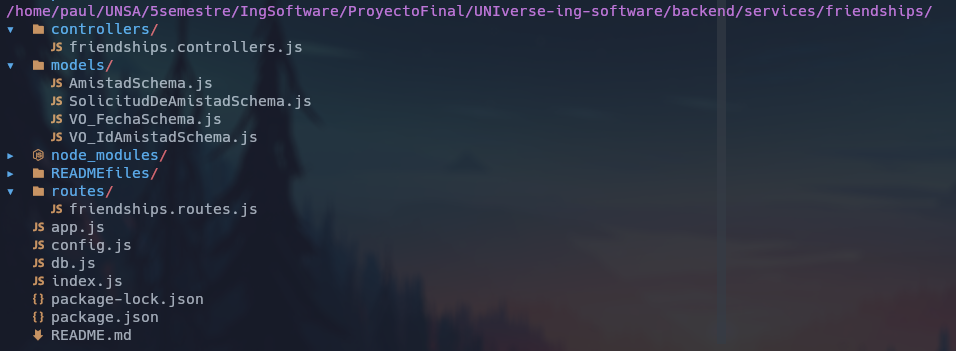
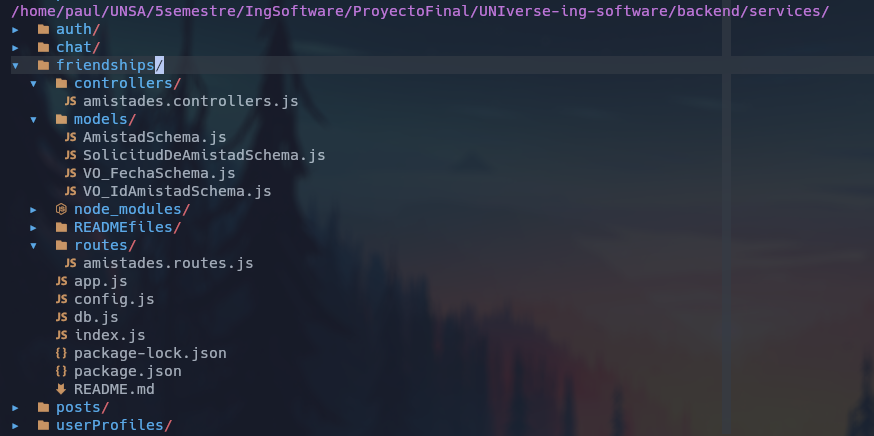
readme

diff --git a/backend/services/friendships/README.md b/backend/services/friendships/README.md
@@ -102,7 +102,7 @@ El siguiente código muestra cómo configurar una aplicación web utilizando el 
 ```javascript
 import express from "express";
 import fileUpload from "express-fileupload";
-import chatRoutes from "./routes/chat.routes.js";
+import amistadesRoutes from "./routes/amistades.routes.js";
 import { dirname, join } from "path";
 import { fileURLToPath } from "url";
 import cors from 'cors';
@@ -111,17 +111,17 @@ const app = express();
 const __dirname = dirname(fileURLToPath(import.meta.url));
 
 // middlewares
-app.use(cors());
+app.use(cors())
 app.use(express.json());
 app.use(
-  fileUpload({
-    useTempFiles: true,
-    tempFileDir: "./upload",
-  })
+    fileUpload({
+        useTempFiles: true,
+        tempFileDir: "./upload",
+    })
 );
 
 // routes
-app.use(chatRoutes);
+app.use(amistadesRoutes);
 console.log(__dirname);
 app.use(express.static(join(__dirname, "../client/build")));
 
@@ -178,7 +178,7 @@ La longitud de línea preferida puede variar según la comunidad de desarrollo, 
 ```javascript
 import express from "express";
 import fileUpload from "express-fileupload";
-import chatRoutes from "./routes/chat.routes.js";
+import amistadesRoutes from "./routes/amistades.routes.js";
 import { dirname, join } from "path";
 import { fileURLToPath } from "url";
 import cors from 'cors';
@@ -187,12 +187,17 @@ const app = express();
 const __dirname = dirname(fileURLToPath(import.meta.url));
 
 // middlewares
-app.use(cors());
+app.use(cors())
 app.use(express.json());
-app.use(fileUpload({ useTempFiles: true, tempFileDir: "./upload" }));
+app.use(
+    fileUpload({
+        useTempFiles: true,
+        tempFileDir: "./upload",
+    })
+);
 
 // routes
-app.use(chatRoutes);
+app.use(amistadesRoutes);
 console.log(__dirname);
 app.use(express.static(join(__dirname, "../client/build")));
 
@@ -251,7 +256,15 @@ Desventajas del Paradigma Procedural:
 - No es tan adecuado para proyectos más grandes y complejos, donde la modularidad y la reutilización son esenciales.
 
 ```javascript
-export const acceptFriendRequest = (req, res) => {
+/**
+ * Acepta una solicitud de amistad.
+ * @function aceptarSolicitudDeAmistad
+ * @param {Object} req - Objeto de solicitud de Express.
+ * @param {Object} res - Objeto de respuesta de Express.
+ * @returns {Promise<void>} - No devuelve ningún valor explícito.
+ * @throws {Error} - Si ocurre algún error en el servidor o si la solicitud de amistad no se encuentra o no está pendiente.
+ */
+export const aceptarSolicitudDeAmistad = (req, res) => {
     const { id } = req.params;
     SolicitudDeAmistad.findById(id)
         .then(friendRequest => {
@@ -269,6 +282,7 @@ export const acceptFriendRequest = (req, res) => {
             res.status(500).json({ message: error.message });
         });
 };
+
 ```
 
 ### Paradigma Orientado a Objetos
@@ -398,7 +412,15 @@ export default SolicitudDeAmistad;
 ```
 
 ```javascript
-export const sendFriendRequest = (req, res) => {
+/**
+ * Envia una solicitud de amistad.
+ * @function enviarSolicitudDeAmistad
+ * @param {Object} req - Objeto de solicitud de Express.
+ * @param {Object} res - Objeto de respuesta de Express.
+ * @returns {Promise<void>} - No devuelve ningún valor explícito.
+ * @throws {Error} - Si ocurre algún error en el servidor.
+ */
+export const enviarSolicitudDeAmistad = (req, res) => {
     const { idRemitente, idDestinatario } = req.body;
     SolicitudDeAmistad.findOne({
         IdRemitente: idRemitente,
@@ -426,3 +448,196 @@ export const sendFriendRequest = (req, res) => {
         });
 };
 ```
+
+# Laboratorio 11: Principios SOLID
+## 1. S: Single Responsibility Principle (SRP)
+
+El Principio de Responsabilidad Única (Single Responsibility Principle - SRP) es uno de los pilares fundamentales de los principios SOLID en ingeniería de software. Este principio se centra en asegurar que cada clase o módulo tenga una única responsabilidad o tarea específica.
+
+La idea detrás del SRP es que una clase debe ser responsable de una única funcionalidad o característica dentro del sistema. Si una clase tiene múltiples responsabilidades, esto puede llevar a un código confuso, difícil de mantener y propenso a errores. Por lo tanto, es recomendable dividir esas responsabilidades en diferentes clases, cada una de ellas encargada de una tarea específica.
+
+Beneficios del SRP:
+
+1. **Mantenibilidad:** Al tener clases con responsabilidades únicas, el código se vuelve más fácil de entender y modificar. Si una clase necesita cambios, se puede enfocar únicamente en la lógica relacionada a su responsabilidad, sin afectar otras partes del sistema.
+    
+2. **Reutilización:** Al separar las responsabilidades, los componentes se vuelven más modulares, lo que facilita la reutilización en otros lugares del sistema o en proyectos futuros.
+    
+3. **Testabilidad:** Las clases con responsabilidades únicas tienden a ser más fáciles de probar, ya que sus funcionalidades están bien delimitadas y se pueden crear pruebas más específicas para cada una de ellas.
+    
+4. **Claridad y comprensión:** Un diseño basado en el SRP mejora la legibilidad del código, ya que cada clase tiene un propósito claro y bien definido, lo que facilita a otros desarrolladores entender rápidamente su función y responsabilidad.
+    
+
+Sin embargo, es importante tener en cuenta que aplicar el SRP no significa crear una gran cantidad de clases extremadamente pequeñas para cada tarea trivial. Debe haber un equilibrio y sentido común en el diseño. El objetivo es dividir las responsabilidades de forma lógica y coherente, agrupando funcionalidades relacionadas y evitando la mezcla de tareas inconexas.
+
+Un enfoque útil para identificar si una clase viola el SRP es utilizar la técnica de "la prueba del cambio". Si una modificación en un requisito o funcionalidad requiere cambios en múltiples lugares dentro de la misma clase, es probable que esa clase tenga más de una responsabilidad y deba dividirse en clases más pequeñas y cohesivas.
+
+### SolicitudDeAmistadSchema.js
+
+```javascript
+import mongoose from "mongoose";
+
+const SolicitudDeAmistadSchema = new mongoose.Schema({
+    IDRemitente: {
+        type: mongoose.Schema.Types.ObjectId,
+        ref: "Usuario",
+        required: true,
+        trim: true,
+    },
+    IDDestinatario: {
+        type: mongoose.Schema.Types.ObjectId,
+        ref: "Usuario",
+        required: true,
+        trim: true,
+    },
+    EstadoDeSolicitud: {
+        type: String,
+        required: true,
+        trim: true,
+    },
+});
+const SolicitudDeAmistad = mongoose.model("SolicitudDeAmistad", SolicitudDeAmistadSchema);
+export default SolicitudDeAmistad;
+```
+
+Amistades.Controller.js
+```javascript
+import SolicitudDeAmistad from "../models/SolicitudDeAmistadSchema.js";
+
+/**
+ * Envia una solicitud de amistad.
+ * @function enviarSolicitudDeAmistad
+ * @param {Object} req - Objeto de solicitud de Express.
+ * @param {Object} res - Objeto de respuesta de Express.
+ * @returns {Promise<void>} - No devuelve ningún valor explícito.
+ * @throws {Error} - Si ocurre algún error en el servidor.
+ */
+export const enviarSolicitudDeAmistad = (req, res) => {
+    const { idRemitente, idDestinatario } = req.body;
+    SolicitudDeAmistad.findOne({
+        IdRemitente: idRemitente,
+        IdDestinatario: idDestinatario,
+    })
+        .then(existingRequest => {
+            if (existingRequest) {
+                return res.status(400).json({ message: "Ya se ha enviado una solicitud de amistad" });
+            }
+
+            const newFriendRequest = new SolicitudDeAmistad({
+                IdRemitente: idRemitente,
+                IdDestinatario: idDestinatario,
+                EstadoDeSolicitud: "Pendiente",
+            });
+
+            return newFriendRequest.save();
+        })
+        .then(newFriendRequest => {
+            res.status(201).json(newFriendRequest);
+        })
+        .catch(error => {
+            console.log(error.message);
+            res.status(500).json({ message: error.message });
+        });
+};
+
+/**
+ * Acepta una solicitud de amistad.
+ * @function aceptarSolicitudDeAmistad
+ * @param {Object} req - Objeto de solicitud de Express.
+ * @param {Object} res - Objeto de respuesta de Express.
+ * @returns {Promise<void>} - No devuelve ningún valor explícito.
+ * @throws {Error} - Si ocurre algún error en el servidor o si la solicitud de amistad no se encuentra o no está pendiente.
+ */
+export const aceptarSolicitudDeAmistad = (req, res) => {
+    const { id } = req.params;
+    SolicitudDeAmistad.findById(id)
+        .then(friendRequest => {
+            if (!friendRequest || friendRequest.EstadoDeSolicitud !== "Pendiente") {
+                return res.status(404).json({ message: "Solicitud de amistad no encontrada o no está pendiente" });
+            }
+            friendRequest.EstadoDeSolicitud = "Aceptada";
+            return friendRequest.save();
+        })
+        .then(() => {
+            res.json({ message: "Solicitud de amistad aceptada exitosamente" });
+        })
+        .catch(error => {
+            console.log(error.message);
+            res.status(500).json({ message: error.message });
+        });
+};
+
+/**
+ * Rechaza una solicitud de amistad.
+ * @function rechazarSolicitudDeAmistad
+ * @param {Object} req - Objeto de solicitud de Express.
+ * @param {Object} res - Objeto de respuesta de Express.
+ * @returns {Promise<void>} - No devuelve ningún valor explícito.
+ * @throws {Error} - Si ocurre algún error en el servidor o si la solicitud de amistad no se encuentra o no está pendiente.
+ */
+export const rechazarSolicitudDeAmistad = (req, res) => {
+    const { id } = req.params;
+    SolicitudDeAmistad.findById(id)
+        .then(friendRequest => {
+            if (!friendRequest || friendRequest.EstadoDeSolicitud !== "Pendiente") {
+                return res.status(404).json({ message: "Solicitud de amistad no encontrada o no está pendiente" });
+            }
+            friendRequest.EstadoDeSolicitud = "Rechazada";
+            return friendRequest.save();
+        })
+        .then(() => {
+            res.json({ message: "Solicitud de amistad rechazada exitosamente" });
+        })
+        .catch(error => {
+            console.log(error.message);
+            res.status(500).json({ message: error.message });
+        });
+};
+
+```
+
+En este caso, tenemos dos archivos: uno contiene las funciones que envían, aceptan y rechazan solicitudes de amistad, mientras que el otro define el esquema y el modelo de datos para las solicitudes de amistad. Veamos si cada archivo cumple con el SRP:
+
+1. **Archivo `AmistadesController.js`:** Este archivo contiene tres funciones relacionadas con la gestión de solicitudes de amistad: `enviarSolicitudDeAmistad`, `aceptarSolicitudDeAmistad` y `rechazarSolicitudDeAmistad`. Cada función tiene una responsabilidad única, que es manejar la lógica específica para enviar, aceptar o rechazar una solicitud de amistad. Por lo tanto, este archivo parece cumplir con el principio de Responsabilidad Única, ya que cada función se centra en una tarea específica.
+    
+2. **Archivo `SolicitudDeAmistadSchema.js`:** Este archivo define el esquema y el modelo de datos para las solicitudes de amistad utilizando Mongoose. Su responsabilidad es establecer cómo se estructura y almacena la información de las solicitudes de amistad en la base de datos. Dado que su única responsabilidad es definir la estructura del esquema y el modelo, este archivo también parece cumplir con el principio de Responsabilidad Única.
+    
+
+En resumen, ambos archivos parecen cumplir con el principio de Responsabilidad Única, ya que cada uno tiene una responsabilidad única y claramente definida. El archivo `AmistadesController.js` se encarga de la lógica para enviar, aceptar y rechazar solicitudes de amistad, mientras que el archivo `SolicitudDeAmistadSchema.js` se encarga de definir la estructura del esquema y el modelo de datos para las solicitudes de amistad. Mantener las responsabilidades separadas facilita el mantenimiento y la comprensión del código.
+
+
+## 2. D: Dependency Inversion Principle (DIP)
+
+El principio de Inversión de Dependencia establece que los módulos de alto nivel no deben depender de módulos de bajo nivel, sino que ambos deben depender de abstracciones. Además, las abstracciones no deben depender de detalles, sino que los detalles deben depender de abstracciones.
+
+```javascript
+import dotenv from 'dotenv'
+
+dotenv.config();
+
+export const MONGODB_URI = process.env.MONGODB_URI || "mongodb://localhost/testdb";
+export const PORT = process.env.PORT || 4000;
+```
+
+```javascript
+import mongoose from "mongoose";
+import { MONGODB_URI } from "./config.js";
+
+export async function connectDB() {
+    try {
+        mongoose.set("strictQuery", true);
+        const db = await mongoose.connect(MONGODB_URI);
+        console.log(`Connected to database: ${db.connection.name}`);
+    }  
+    catch (error) {
+        console.log(error);
+    }
+}
+```
+
+En el código, podemos identificar los siguientes puntos relacionados con DIP:
+
+1. Abstracción de la base de datos: La función connectDB no se enfoca en los detalles específicos de la implementación de la base de datos MongoDB. En cambio, utiliza la abstracción proporcionada por la biblioteca Mongoose para establecer la conexión. De esta manera, el código no está directamente acoplado a los detalles de cómo se implementa la conexión, lo que facilita el cambio de la base de datos en el futuro si fuera necesario.
+
+2. Utilización de una constante de configuración: La cadena de conexión a la base de datos, MONGODB_URI, se obtiene desde un módulo de configuración externo, llamado config.js. Al hacer esto, el código no está directamente acoplado a la cadena de conexión, lo que facilita el cambio de la configuración de la base de datos sin tener que modificar la función connectDB en sí misma.
+
+Al utilizar abstracciones y depender de interfaces en lugar de detalles concretos, este código sigue el principio de Inversión de Dependencia, lo que lo hace más flexible y mantenible en el futuro, ya que los cambios en la implementación o configuración de la base de datos pueden realizarse sin afectar la lógica de la función connectDB.
